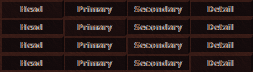
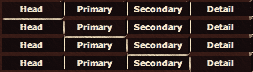
Client: light letters on the Outfit window's colour tabs, Copy / Paste, Ok / Cancel
gen_ui_reskin.py mapped the baked light-grey words of these stock textures
to bronze on dried blood. TEXT_LIFT blends the pixels brighter than their
neighbourhood toward light parchment; --only regenerates just some files.

Claude-Session: https://claude.ai/code/session_01MSp5LCfR63GEHJQb2KD2t4

diff --git a/client/tools/gen_ui_reskin.py b/client/tools/gen_ui_reskin.py
@@ -1,7 +1,7 @@
 #!/usr/bin/env python3
 """Recolour the base client's UI textures to the Chaos palette.
 
-usage: python3 gen_ui_reskin.py <base-client-dir> [overlay-dir] [--dry-run]
+usage: python3 gen_ui_reskin.py <base-client-dir> [overlay-dir] [--dry-run] [--only=ui/a.png,...]
 
 The stock interface is grey stone. Every grey pixel of the chrome textures (windows, mini windows, panels,
 buttons, scroll bars, tabs, console, action bar, inventory, minimap frame...) is mapped by its brightness onto
@@ -60,6 +60,15 @@ TEXT_FREE = {
     'optionstab/gameplay.png': [(34, 6, 81, 16), (35, 27, 82, 37)],
     'optionstab/screenshot.png': [(27, 6, 87, 15), (28, 27, 88, 36)],
 }
+# Light words baked into a texture (Outfit window colour tabs, Copy / Paste, Ok / Cancel): the brightness map put
+# them in bronze on dried blood, hard to read (owner 2026-10-22). Their pixels (brighter than the band around them)
+# go to light parchment instead.
+TEXT_LIFT = {'ui/colors-panel.png', 'ui/copy-all.png', 'ui/copy-colours.png', 'ui/paste.png', 'ui/ok-button.png',
+             'ui/cancelButton.png'}
+LIFT_COLOUR = np.array([246, 230, 196], dtype=np.float64)
+LIFT_MIN, LIFT_FULL = 0.06, 0.22  # how much brighter than the median around it: starts to lift, fully lifted
+LIFT_RADIUS = 3                    # the median window: (2 r + 1) squared pixels
+
 REF = re.compile(r'/images/([A-Za-z0-9_/.\- ]+?)(?:\.png)?(?=[\s\'")\],;]|$)')
 
 _XS = np.array([s[0] for s in STOPS])
@@ -76,6 +85,22 @@ def recolor(rgba):
     out = rgba.copy()
     out[..., :3] = (np.clip(mapped * w + rgb * (1 - w), 0, 1) * 255).round().astype(np.uint8)
     return out, float((w[..., 0] * (rgba[..., 3] > 0)).sum())
+
+
+def lift_text(src, out):
+    """src: the stock pixels, out: recoloured. A pixel brighter than the median of its neighbourhood (a letter on its
+    band) is blended toward LIFT_COLOUR by how much brighter it is; everything else stays as recoloured."""
+    rgb = src[..., :3].astype(np.float64) / 255.0
+    lum = 0.299 * rgb[..., 0] + 0.587 * rgb[..., 1] + 0.114 * rgb[..., 2]
+    r = LIFT_RADIUS
+    pad = np.pad(lum, r, mode='edge')
+    h, w = lum.shape
+    win = np.stack([pad[dy:dy + h, dx:dx + w] for dy in range(2 * r + 1) for dx in range(2 * r + 1)])
+    bg = np.median(win, axis=0)
+    t = np.clip((lum - bg - LIFT_MIN) / (LIFT_FULL - LIFT_MIN), 0, 1)[..., None]
+    res = out.copy()
+    res[..., :3] = (out[..., :3].astype(np.float64) * (1 - t) + LIFT_COLOUR * t).round().astype(np.uint8)
+    return res
 
 
 def erase_text(rgba, boxes):
@@ -118,6 +143,11 @@ def main():
     if not args:
         sys.exit(__doc__)
     dry = '--dry-run' in sys.argv
+    # --only=ui/a.png,ui/b.png: just these files (the list file keeps every earlier one)
+    only = set()
+    for a in sys.argv[1:]:
+        if a.startswith('--only='):
+            only = {x.strip() for x in a[len('--only='):].split(',') if x.strip()}
     base = os.path.abspath(args[0])
     here = os.path.dirname(os.path.abspath(__file__))
     overlay = os.path.abspath(args[1] if len(args) > 1 else os.path.join(here, '..', 'overlay'))
@@ -125,16 +155,22 @@ def main():
     out_images = os.path.join(overlay, 'data', 'images')
     written = skipped = 0
     total = 0
-    for rel in wanted_files(base):
+    if only:
+        generated.update(previously_generated(overlay))
+    for rel in (sorted(only) if only else wanted_files(base)):
         dst = os.path.join(out_images, rel)
         # our own art in the overlay wins; files this tool wrote itself are listed in RESKIN_FILES.txt
         if os.path.exists(dst) and rel not in previously_generated(overlay):
             skipped += 1
             continue
+        if only and rel.replace(os.sep, '/') not in only:
+            continue
         im = Image.open(os.path.join(images, rel)).convert('RGBA')
         arr, touched = recolor(np.array(im))
         if touched < 1:
             continue
+        if rel.replace(os.sep, '/') in TEXT_LIFT:
+            arr = lift_text(np.array(im), arr)
         arr = erase_text(arr, TEXT_FREE.get(rel.replace(os.sep, '/'), ()))
         written += 1
         if not dry:

diff --git a/server/data/patchnotes/2026-10-22.md b/server/data/patchnotes/2026-10-22.md
@@ -112,6 +112,8 @@ pieces are never sold: only bosses drop them. Nothing here changes your power.
 
 - **Helper Support skips light and rope.** Lantern, Ghost Rope and the other utility spells no longer go into the
   Support list. A list that has them loses them at the next login.
+- **Readable Outfit window buttons.** The colour tabs (Head, Primary, Secondary, Detail), Copy, Paste, Ok and Cancel
+  now have light letters. Update the client to see it.
 - **Helper Support keeps its list after a death.** Dying no longer unticks the vigils in the list.
 
 - **Seraphic and Dawnforged gear uses its own materials.** Their recipes asked for Myst stones and emblems, so the
